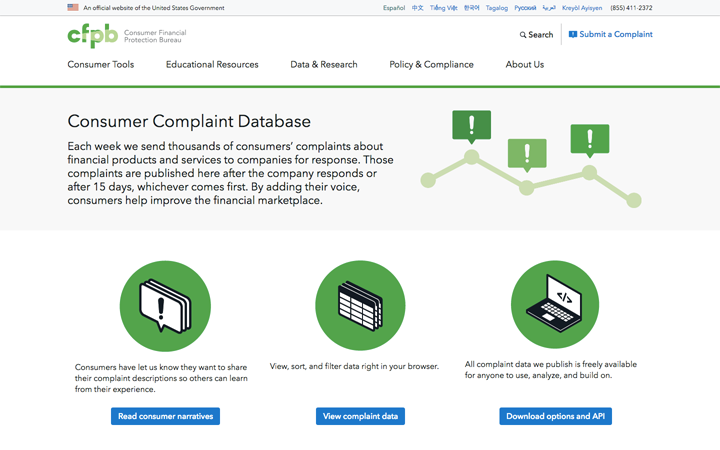
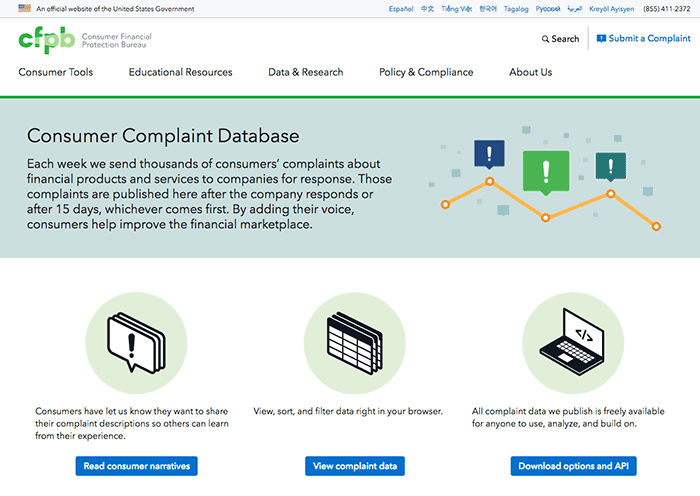
Update readme and changelog

diff --git a/CHANGELOG.md b/CHANGELOG.md
@@ -3,14 +3,54 @@ All notable changes to this project will be documented in this file.
 This project adheres to [Semantic Versioning](http://semver.org/).
 
 ## [Unreleased][unreleased]
-- Removed view code to parse narratives as jsonp (now straight json)
+
+## [1.3.2] - 2017-05-02
+### Fixed
+- Fixed tests for running with cfgov-refresh
+
+### Updated
+- Updated CCDB landing page content
+
+## [1.3.1] - 2017-04-24
+### Added
+- Added links to product and issue list PDFs to CCDB landing page
+
+## [1.3.0] - 2017-04-20
+### Added
+- Added "recent changes" notes on CCDB landing page
+- Added feature flag for the CCDB landing page template name
+
+### Removed
+- Removed dynamic complaint counts on CCDB landing page
+- Removed complaint randomizer on CCDB landing page
+- Removed data downloader (and replaced with static download links) on CCDB landing page
+- Removed chevrons after links on CCDB landing page
+- Removed unneeded JS on CCDB landing page
+
+### Fixed
+- Fixed tests for `landingView`
+
+### Updated
+- Updated header and circle illustrations on CCDB landing page
+- Updated "About the data" content on CCDB landing page
+
+## [1.2.9] - 2017-03-09
+### Added
 - Added a url and view option to demo the landing page with a local json file
+
+### Removed
+- Removed view code to parse narratives as jsonp (now straight json)
+
+### Updated
 - Upgrade npm shrinkwrap endpoints to HTTPS
 - Modified api endpoints in JS and HTML
 
 ## [1.2.6] - 2016-10-06
-- Copy updated for `submit-a-complaint` and `process`
+### Added
 - Added travis and coveralls setup
+
+### Updated
+- Copy updated for `submit-a-complaint` and `process`
 - Updated the download 4x4 codes for Money transfers
 
 ## [1.2.2] - 2016-06-06
@@ -78,7 +118,12 @@ This project adheres to [Semantic Versioning](http://semver.org/).
 - Version 1 Django app + Jinja templates
 
 
-[unreleased]: ../../compare/v1.2.2...HEAD
+[unreleased]: ../../compare/1.3.2...HEAD
+[1.3.2]: ../../compare/1.3.1...1.3.2
+[1.3.1]: ../../compare/1.3.0...1.3.1
+[1.3.0]: ../../compare/v1.2.9...1.3.0
+[1.2.9]: ../../compare/v1.2.8...v1.2.9
+[1.2.6]: ../../compare/v1.2.5...v1.2.6
 [1.2.2]: ../../compare/v1.2.1...v1.2.2
 [1.2.1]: ../../compare/v1.2...v1.2.1
 [1.2]: ../../compare/v1.1.8...v1.2

diff --git a/README.md b/README.md
@@ -2,9 +2,8 @@
 
 complaint
 ============
-Standalone Django project that runs the [Submit a complaint](http://www.consumerfinance.gov/complaint) and [Consumer Complaint Database](http://www.consumerfinance.gov/complaintdatabase) applications.
+Standalone Django project that runs the [Consumer Complaint Database](http://www.consumerfinance.gov/complaintdatabase) application.
 
-![Submit a complaint website screenshot](https://raw.githubusercontent.com/cfpb/complaint/master/screenshot-complaint.png)
 ![Consumer Complaint Database website screenshot](https://raw.githubusercontent.com/cfpb/complaint/master/screenshot-complaintdatabase.png)
 
 
@@ -34,20 +33,20 @@ Standalone Django project that runs the [Submit a complaint](http://www.consumer
 1. Run server locally:
 
   ```bash
-  python manage.py runserver 
+  python manage.py runserver
   ```
 1. To set up the front end, first install Gulp if you don't have it:
 
   ```bash
   npm install --global gulp
-  ``` 
+  ```
 1. Install [Autoenv](https://github.com/kennethreitz/autoenv) if needed:
 
   ```bash
   $ pip install autoenv
   ```
 1. Copy `.env_SAMPLE` to `.env` and cd into root directory to execute `.env`.
-  
+
   ```bash
   cp .env_SAMPLE .env
   cd ../complaint
@@ -56,8 +55,8 @@ Standalone Django project that runs the [Submit a complaint](http://www.consumer
 
   ```bash
   sh ./setup.sh
-  ``` 
-1. Go to landing pages: 
+  ```
+1. Go to landing pages:
   - http://127.0.0.1:8000/complaintdatabase/
   - http://127.0.0.1:8000/complaint/data-use/
   - http://127.0.0.1:8000/complaint/process/
